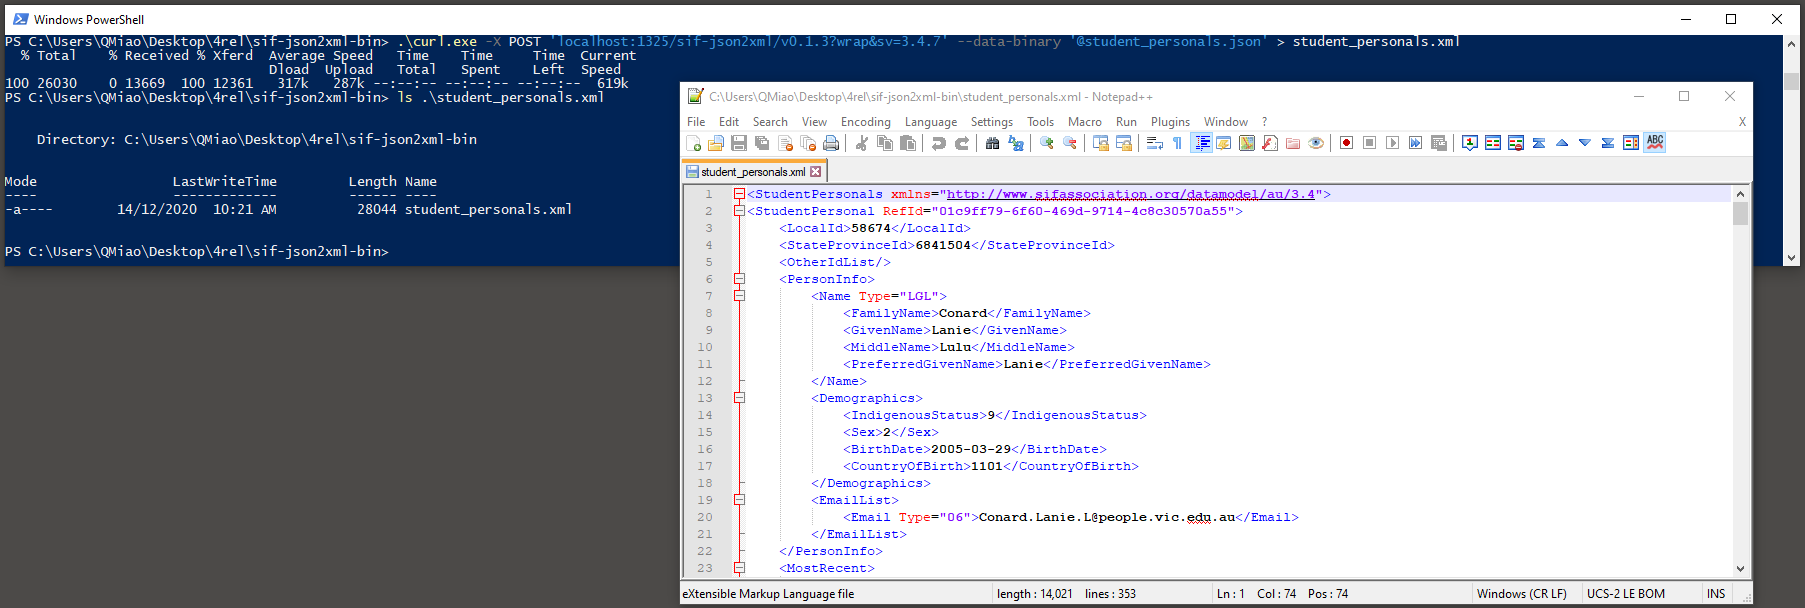
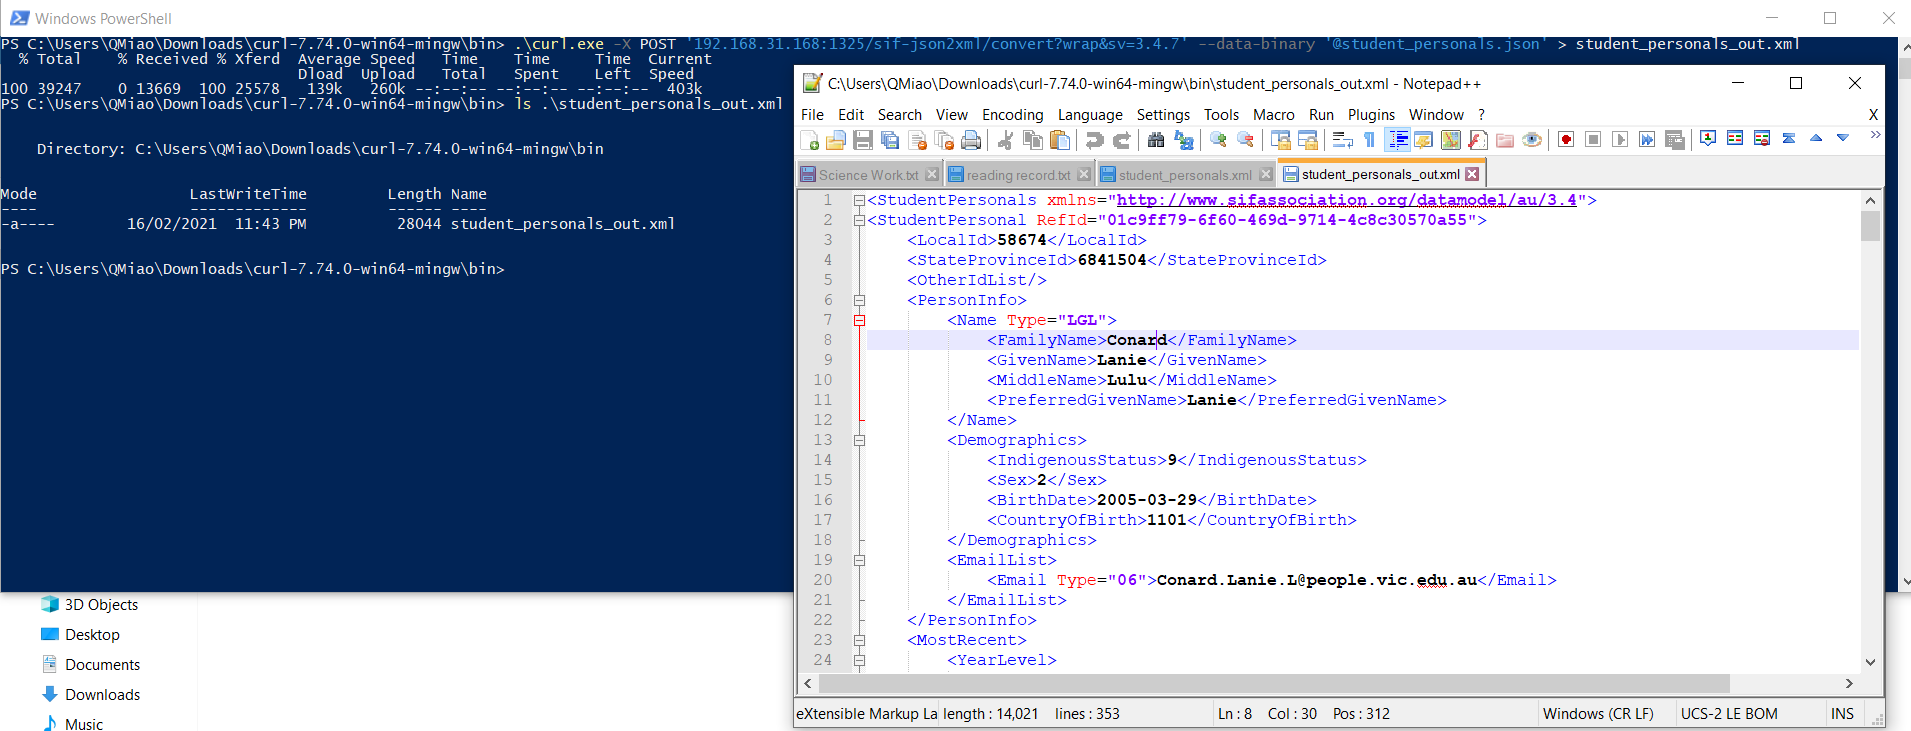
* API changed, version string is not needed in API path

diff --git a/server/main.go b/server/main.go
@@ -15,7 +15,6 @@ import (
 	"github.com/cdutwhu/gonfig/attrim"
 	"github.com/cdutwhu/gonfig/strugen"
 	"github.com/cdutwhu/gotil/misc"
-	"github.com/cdutwhu/gotil/rflx"
 	jt "github.com/cdutwhu/json-tool"
 	"github.com/labstack/echo-contrib/jaegertracing"
 	"github.com/labstack/echo/v4"
@@ -38,6 +37,18 @@ func mkCfg4Clt(cfg interface{}) {
 	strugen.GenNewCfg(outSrc)
 }
 
+func mkCfg4Docker(cfg interface{}) {
+	forel := "./config_rel.toml"
+	gonfig.Save(forel, cfg)
+	outToml := "../config_d.toml"
+	os.Remove(outToml)
+	attrim.RmCfgAttrL1(forel, outToml, "Log", "Server", "Access")
+}
+
+var (
+	gCfg *cfg.Config
+)
+
 func main() {
 	// Load global config.toml file from Config/
 	gonfig.SetDftCfgVal("sif-json2xml", "0.0.0")
@@ -52,16 +63,17 @@ func main() {
 		"../config/config.toml",
 	)
 	failOnErrWhen(pCfg == nil, "%v: Config Init Error", errs.CFG_INIT_ERR)
-	Cfg := pCfg.(*cfg.Config)
+	gCfg = pCfg.(*cfg.Config)
 
 	// Trim a shorter config toml file for client package
 	if len(os.Args) > 2 && os.Args[2] == "trial" {
-		mkCfg4Clt(Cfg)
+		mkCfg4Docker(gCfg)
+		mkCfg4Clt(gCfg)
 		return
 	}
 
-	ws := Cfg.WebService
-	var IService interface{} = Cfg.Service // Cfg.Service can be "string", can be "interface{}"
+	ws := gCfg.WebService
+	var IService interface{} = gCfg.Service // Cfg.Service can be "string" or "interface{}"
 	service := IService.(string)
 
 	// Set Jaeger Env for tracing
@@ -70,15 +82,17 @@ func main() {
 	os.Setenv("JAEGER_SAMPLER_PARAM", "1")
 
 	// Set LOGGLY
-	setLoggly(true, Cfg.Loggly.Token, service)
+	setLoggly(false, gCfg.Loggly.Token, service)
 
 	// Set Log Options
 	syncBindLog(true)
 	enableWarnDetail(false)
-	enableLog2F(true, Cfg.Log)
+	if gCfg.Log != "" {
+		enableLog2F(true, gCfg.Log)
+		logGrp.Do(fSf("local log file @ [%s]", gCfg.Log))
+	}
 
-	logGrp.Do(fSf("local log file @ [%s]", Cfg.Log))
-	logGrp.Do(fSf("[%s] Hosting on: [%v:%d], version [%v]", service, localIP(), ws.Port, Cfg.Version))
+	logGrp.Do(fSf("[%s] Hosting on: [%v:%d], version [%v]", service, localIP(), ws.Port, gCfg.Version))
 
 	// Start Service
 	done := make(chan string)
@@ -126,11 +140,11 @@ func HostHTTPAsync(sig <-chan os.Signal, done chan<- string) {
 	e.Logger.Infof(" ------------------------ e.Logger.Infof ------------------------ ")
 
 	var (
-		Cfg    = rflx.Env2Struct("Config", &cfg.Config{}).(*cfg.Config)
-		port   = Cfg.WebService.Port
+		// Cfg    = rflx.Env2Struct("Config", &cfg.Config{}).(*cfg.Config)
+		port   = gCfg.WebService.Port
 		fullIP = localIP() + fSf(":%d", port)
-		route  = Cfg.Route
-		mMtx   = initMutex(&Cfg.Route)
+		route  = gCfg.Route
+		mMtx   = initMutex(&gCfg.Route)
 		vers   = sr.GetAllVer("v", "")
 	)
 
@@ -145,16 +159,13 @@ func HostHTTPAsync(sig <-chan os.Signal, done chan<- string) {
 		mMtx[path].Lock()
 
 		return c.String(http.StatusOK,
-			// fSf("wget %-55s-> %s\n", fullIP+"/client-linux64", "Get Client(Linux64)")+
-			// 	fSf("wget %-55s-> %s\n", fullIP+"/client-mac", "Get Client(Mac)")+
-			// 	fSf("wget %-55s-> %s\n", fullIP+"/client-win64", "Get Client(Windows64)")+
-			// 	fSf("wget -O config.toml %-40s-> %s\n", fullIP+"/client-config", "Get Client Config")+
-			// 	fSf("\n")+
-			fSf("[POST] %-40s\n%s", fullIP+route.Convert,
-				"--- Upload SIF(JSON), return SIF(XML).\n"+
-					"------ [sv]:   SIF Ver "+fSf("%v", vers)+"\n"+
-					"------ [nats]: send json to NATS\n"+
-					"------ [wrap]: if uploaded SIF file is single root wrapped"))
+			fSf("Converter Server Version: %s\n\n", gCfg.Version)+
+				fSf("API:\n\n [POST] %-40s\n%s", fullIP+route.Convert,
+					"\n Description: Upload SIF(JSON), return SIF(XML)\n"+
+						"\n Parameters:"+
+						"\n -- [sv]:   available SIF Ver: "+fSf("%v", vers)+
+						"\n -- [nats]: send json to NATS?"+
+						"\n -- [wrap]: is uploaded SIF file with single wrapped root?"))
 	})
 
 	// ------------------------------------------------------------------------------------ //

diff --git a/config/cfg/config.go b/config/cfg/config.go
@@ -21,14 +21,14 @@ type Config struct {
 		Help string
 	}
 	NATS struct {
-		Subject string
 		Timeout int
 		URL string
+		Subject string
 	}
 	Server struct {
-		IP interface{}
 		Port interface{}
 		Protocol string
+		IP interface{}
 	}
 	Access struct {
 		Timeout int

diff --git a/server/client/config.go b/server/client/config.go
@@ -10,9 +10,9 @@ type Config struct {
 		Help string
 	}
 	Server struct {
-		IP string
 		Port int
 		Protocol string
+		IP string
 	}
 	Access struct {
 		Timeout int

diff --git a/README.md b/README.md
@@ -3,27 +3,31 @@
 sifjson2xml is a web service utility that converts SIF JSON to SIF XML. It has a sister tool [sif-xml2json](https://github.com/nsip/sif-xml2json)
 that converts SIF XML to SIF JSON.
 
-### Installation prerequisites
+## Installation prerequisites
+
 64-bit platforms are supported.
 
-### Download binary packages
-   You can download the binary packages from [here](https://github.com/nsip/sif-json2xml/releases) - pull down the Assets list to see current releases.
+## Download binary packages
 
-### Build (optional)
-   If you prefer, you can [build the binary yourself](#build-prerequisite).
+You can download the binary packages from [here](https://github.com/nsip/sif-json2xml/releases) - pull down the Assets list to see current releases.
 
-### What is in each release package ?
+## Build (optional)
 
- *  **sifjson2xml(.exe)**  - the converter web service
- *  **config.toml** - configuration file for the converter web service
- *  **student_personals.json** - a sample SIF JSON file for testing
- *  **screenshots** - the screenshots folder contains images to assist with running and testing sifjson2xml
- *  **README.md** - these instructions and other information. Note that you can follow the same installation instructions from either the downloaded readme or the github repository readme (which is rendered to include images inline)
+If you prefer, you can [build the binary yourself](#build-prerequisite).
 
-### Installation
+## What is in each release package ?
+
+* **sifjson2xml(.exe)**  - the converter web service
+* **config.toml** - configuration file for the converter web service
+* **student_personals.json** - a sample SIF JSON file for testing
+* **screenshots** - the screenshots folder contains images to assist with running and testing sifjson2xml
+* **README.md** - these instructions and other information. Note that you can follow the same installation instructions from either the downloaded readme or the github repository readme (which is rendered to include images inline)
+
+## Installation
+
    Extract the downloaded zipfile to your chosen working directory, and run the server from there as described below.
 
-### Start server
+## Start server
 
   Note: A default starting configuration for the server is provided in config.toml. You can edit this if necessary.
 
@@ -32,18 +36,18 @@ that converts SIF XML to SIF JSON.
 
    `./sifjson2xml`
 
-   On startup, you should see output messages printed such as service name, server IP:Port and service version. 
+   On startup, you should see output messages printed such as service name, server IP:Port and service version.
    `IP`, `port`, `service name` and `version` are important for client access:
 
    ![Start service](screenshots/1_sifjson2xml_running.png)
 
-### Play with Insomnia
+## Play with Insomnia
 
 To give you a quick idea of how sifjson2xml works, here's how to convert the sample file provided with the installation.
 
 For this test we'll use Insomnia, a REST-based API testing system, to call the converter web service sifjson2xml:
 
-1.  If it is not already installed on your machine, download [Insomnia Core](https://insomnia.rest/download/core/?).
+1. If it is not already installed on your machine, download [Insomnia Core](https://insomnia.rest/download/core/?).
 
 2. Start Insomnia
 
@@ -53,7 +57,7 @@ For this test we'll use Insomnia, a REST-based API testing system, to call the c
 
 5. Add the request `localhost:1325`, select `JSON` from the body type pulldown, then click Create.
 
-6. In the POST field above the centre Request body pane, type `localhost:1325/sif-json2xml/v0.1.3?wrap`
+6. In the POST field above the centre Request body pane, type `localhost:1325/sif-json2xml/convert?wrap`
 
 7. Copy the body of the sample file `student_personals.json` into the centre Request Body panel.
 
@@ -61,31 +65,33 @@ For this test we'll use Insomnia, a REST-based API testing system, to call the c
 
 ![2 Insomnia test image](screenshots/2_insomnia_test.png)
 
-### Play with Curl
+## Play with Curl
 
 Curl is a client URL tool that can also be used to call the converter service sifjson2xml.
 
-1, If it is not already running, start the server (instructions above).
+1. If it is not already running, start the server (instructions above).
 
 2. Make sure `curl` is available on your machine.
-(Note: the Windows Powershell version of curl may not work this service.)
+(Note: the Windows Powershell version of curl may not work this service)
 On Windows, if you don't have curl, you can copy it from your Windows system folder (C:\Windows\System32\curl.exe) to your working directory.
 
 3. In your terminal (Linux/Mac) or Powershell (Windows), navigate to your chosen working directory
 
-4. On Windows: Run `./curl.exe -X POST 'localhost:1325/sif-json2xml/v0.1.3?wrap&sv=3.4.7' --data-binary '@student_personals.json' > student_personals.xml`
-
-   On other platforms: Run `curl -X POST 'localhost:1325/sif-json2xml/v0.1.3?wrap&sv=3.4.7' --data-binary '@student_personals.json' > student_personals.xml`.
+4. On Windows: Run `./curl.exe -X POST 'localhost:1325/sif-json2xml/convert?wrap&sv=3.4.7' --data-binary '@student_personals.json' > student_personals.xml`  
+   On other platforms: Run `curl -X POST 'localhost:1325/sif-json2xml/convert?wrap&sv=3.4.7' --data-binary '@student_personals.json' > student_personals.xml`.
 
 ![3 curl test image](screenshots/3_curl_test.png)
 
-### Notes
+## Notes
 
-   *  If sifjson2xml is being run remotely, set the URL `localhost` to the machine's IP address.
-   *  You can modify `port`, `service name` and `service version` in config.toml. 
-   *  The SIF version parameter (URL param `sv`)can be set to the supported SIF data model versions '3.4.6' or '3.4.7'.
-   *  Wrapper parameter (URL param `wrap`): if there is a (non-SIF-object) single wrapper root in the XML file you wish to covert, add the `wrap` parameter.
+* If sifjson2xml is being run remotely, set the URL `localhost` to the machine's IP address.
+* You can modify `port`, `service name` and `service version` in config.toml.
+* The SIF version parameter (URL param `sv`)can be set to the supported SIF data model versions '3.4.2', '3.4.3' ... '3.4.8.draft'.
+* Wrapper parameter (URL param `wrap`): if there is a (non-SIF-object) single wrapper root in the XML file you wish to covert, add the `wrap` parameter.
 
+## More information
+
+Here is the current [SIF data standard](http://specification.sifassociation.org/Implementation/AU)
 
 ## Build Prerequisite
 
@@ -100,13 +106,13 @@ On Windows, if you don't have curl, you can copy it from your Windows system fol
 
 1. Make sure `golang` dev package & `git` are available on your machine.
 
-2. Run `./build.sh` to build service which embedded with SIF Spec 3.4.6 & 3.4.7.
+2. Run `./build.sh` to build service which embedded with SIF Spec. i.e. 3.4.2, 3.4.3 ... 3.4.8.draft.
 
 3. Run `./release.sh [linux64|win64|mac] 'dest-path'` to extract minimal executable package on different.
    e.g. `./release.sh win64 ~/Desktop/sif-json2xml/` extracts windows version bin package into "~/Desktop/sif-json2xml/".
 
 4. Jump into "~/Desktop/sif-json2xml/", modify 'config.toml' if needed.
-   Please set [Service] & [Version] to your own value.
+   Could set **Service** & **Version** to your own proper value.
 
 5. Run `server`.
    Default port is `1325`, can be set at config.toml.
@@ -119,7 +125,7 @@ On Windows, if you don't have curl, you can copy it from your Windows system fol
 
 2. In order to do configuration before running docker image.
    Copy '/sif-json2xml/config/config.toml' to current directory, modify if needed, and name it like `config_d.toml`.
-   Please set [Service] & [Version] to your own value.
+   Could set **Service** & **Version** to your own proper value.
 
 3. Run `docker run --rm --mount type=bind,source=$(pwd)/config_d.toml,target=/config.toml -p 0.0.0.0:1325:1325 nsip/sif-json2xml`.
    Default port is `1325`, can be set at config.toml. If not 1325, change above command's '1325' to your own number.
@@ -139,5 +145,5 @@ On Windows, if you don't have curl, you can copy it from your Windows system fol
    `Port`: Get from server's 'config.toml'-[WebService]-[Port], default is 1325.
    `Service`: service name. Get from server's 'config.toml'-[Service].
    `Version`: service version. Get from server's 'config.toml'-[Version].
-   `sv`: SIF Spec Version, available 3.4.6 & 3.4.7
+   `sv`: SIF Spec Version, available 3.4.2 to 3.4.8.draft.
    `wrap`: if there is a single wrapper (non-sif-object root) on upload sif.json, append param `wrap`.  
